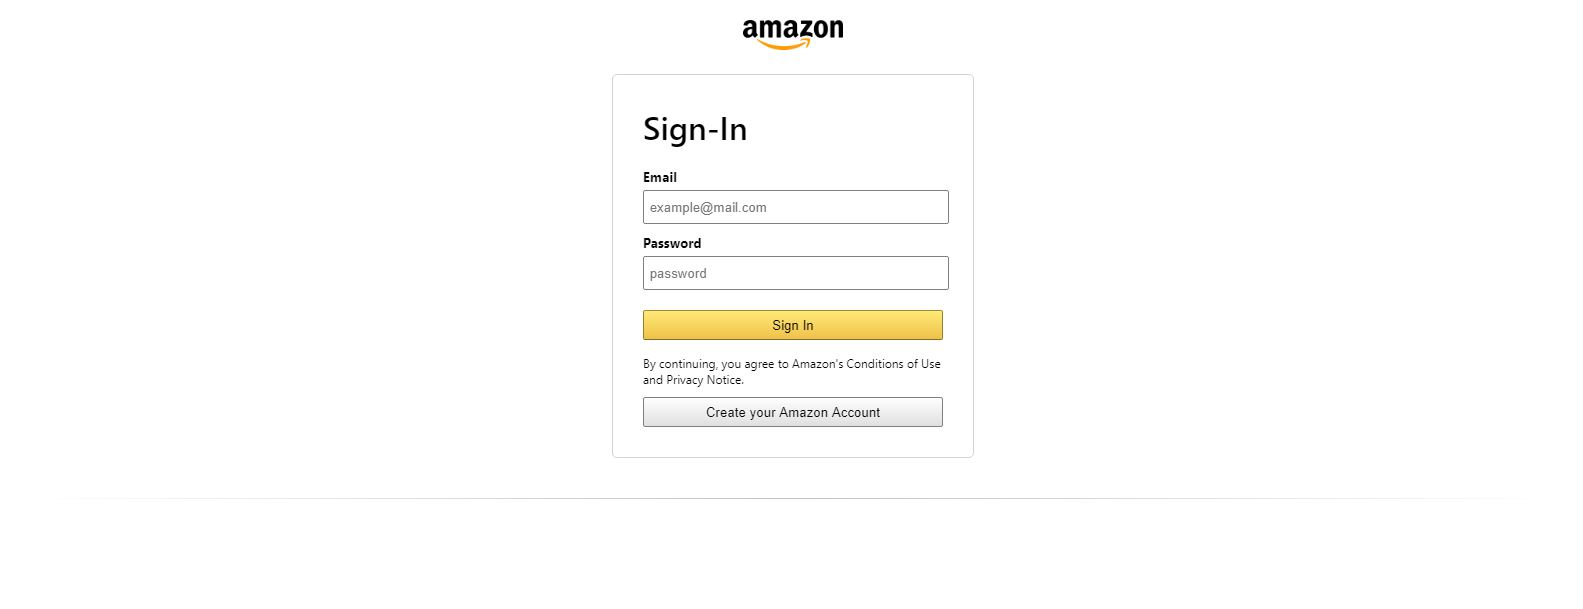
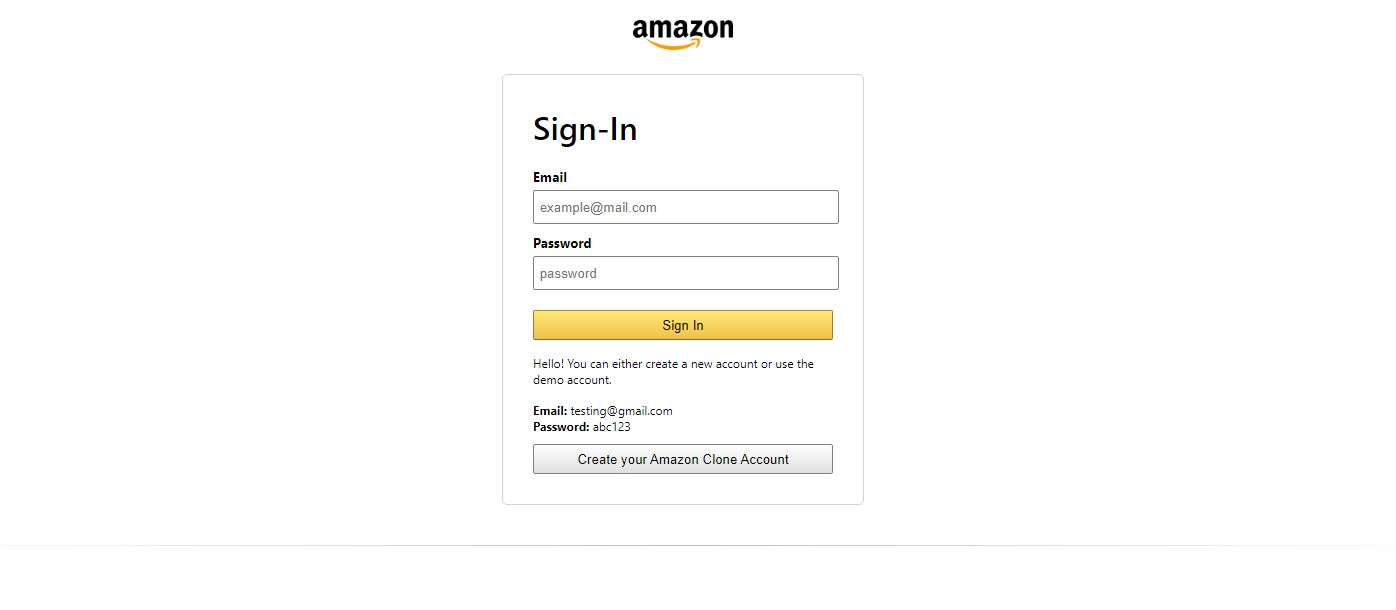
readme and images

diff --git a/README.md b/README.md
@@ -20,6 +20,12 @@ You can use this account for demo:
 
 > Password: abc123
 
+![Login](images/login.JPG)
+
+On the checkout page, you can see the current items in the basket and the subtotal of all the items. Items can be removed from the basket at checkout or during payment processing by clicking on the "Remove from Basket" button. The item will be removed and the subtotal updated.
+
+![Checkout](images/checkout.gif)
+
 When checking out, use this card for testing:
 
 > CCN: 4242 4242 4242 4242 
@@ -29,6 +35,8 @@ When checking out, use this card for testing:
 > CVV: 242 
 
 > Zip: 42424
+
+![Checkout2](images/checkout2.gif)
 
 ### Installation
 Before you download the project, make sure to have node.js installed. You can find it [here.](https://nodejs.org/en/download/)
